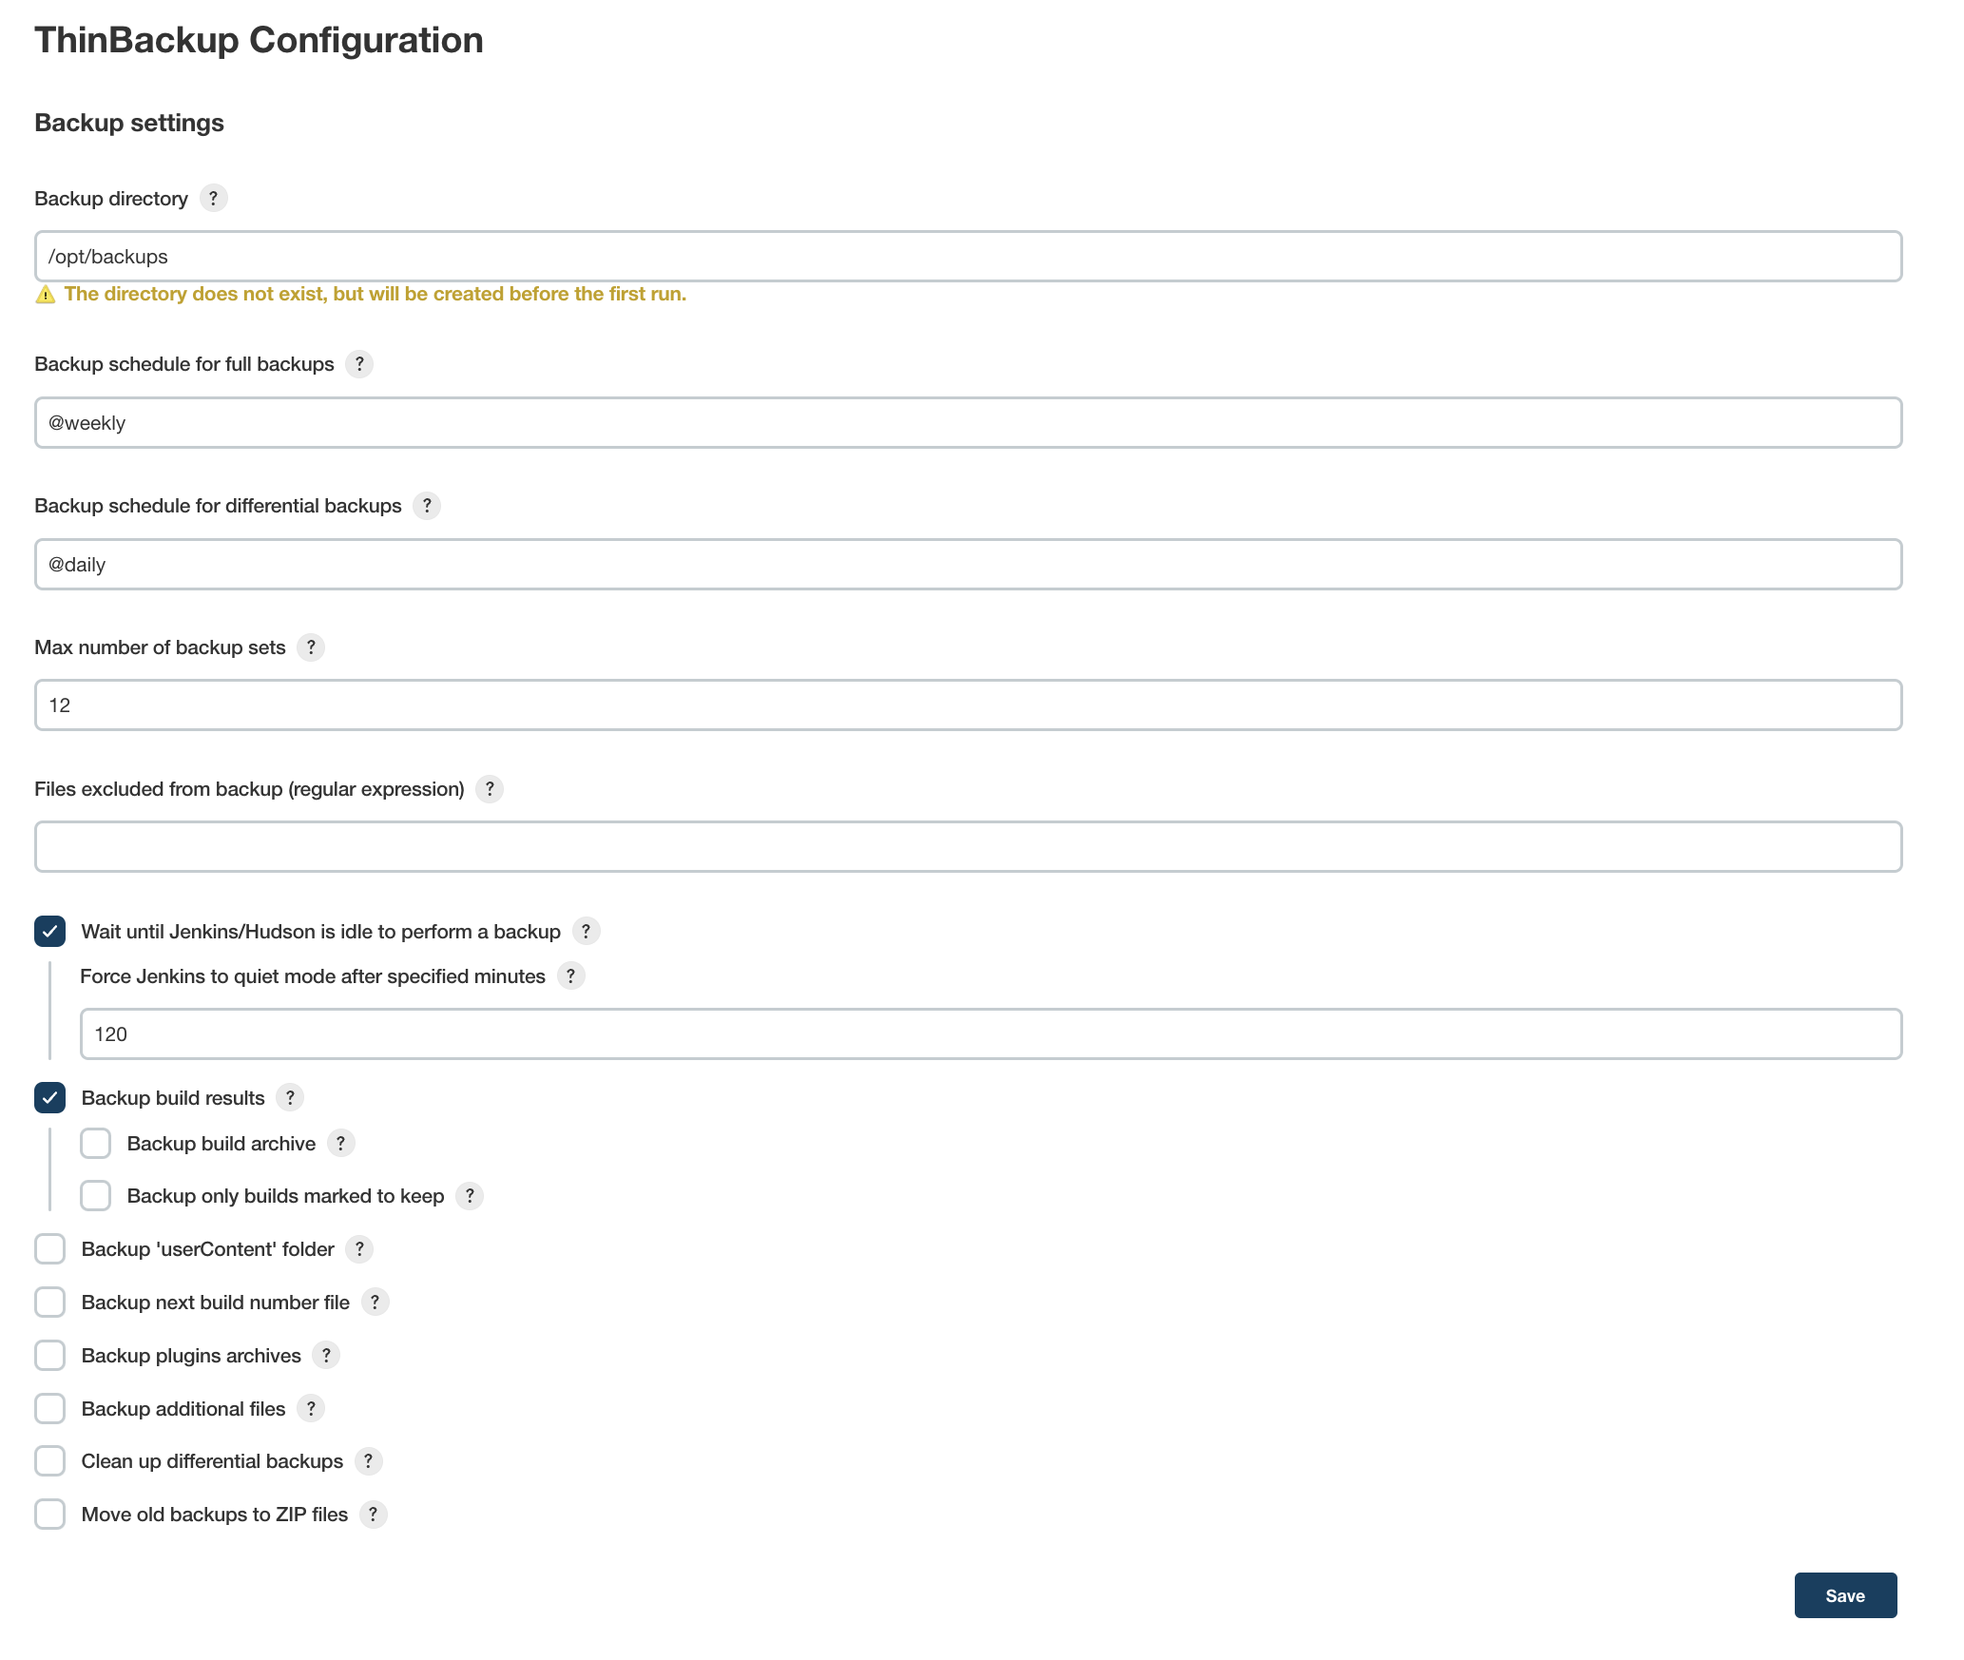
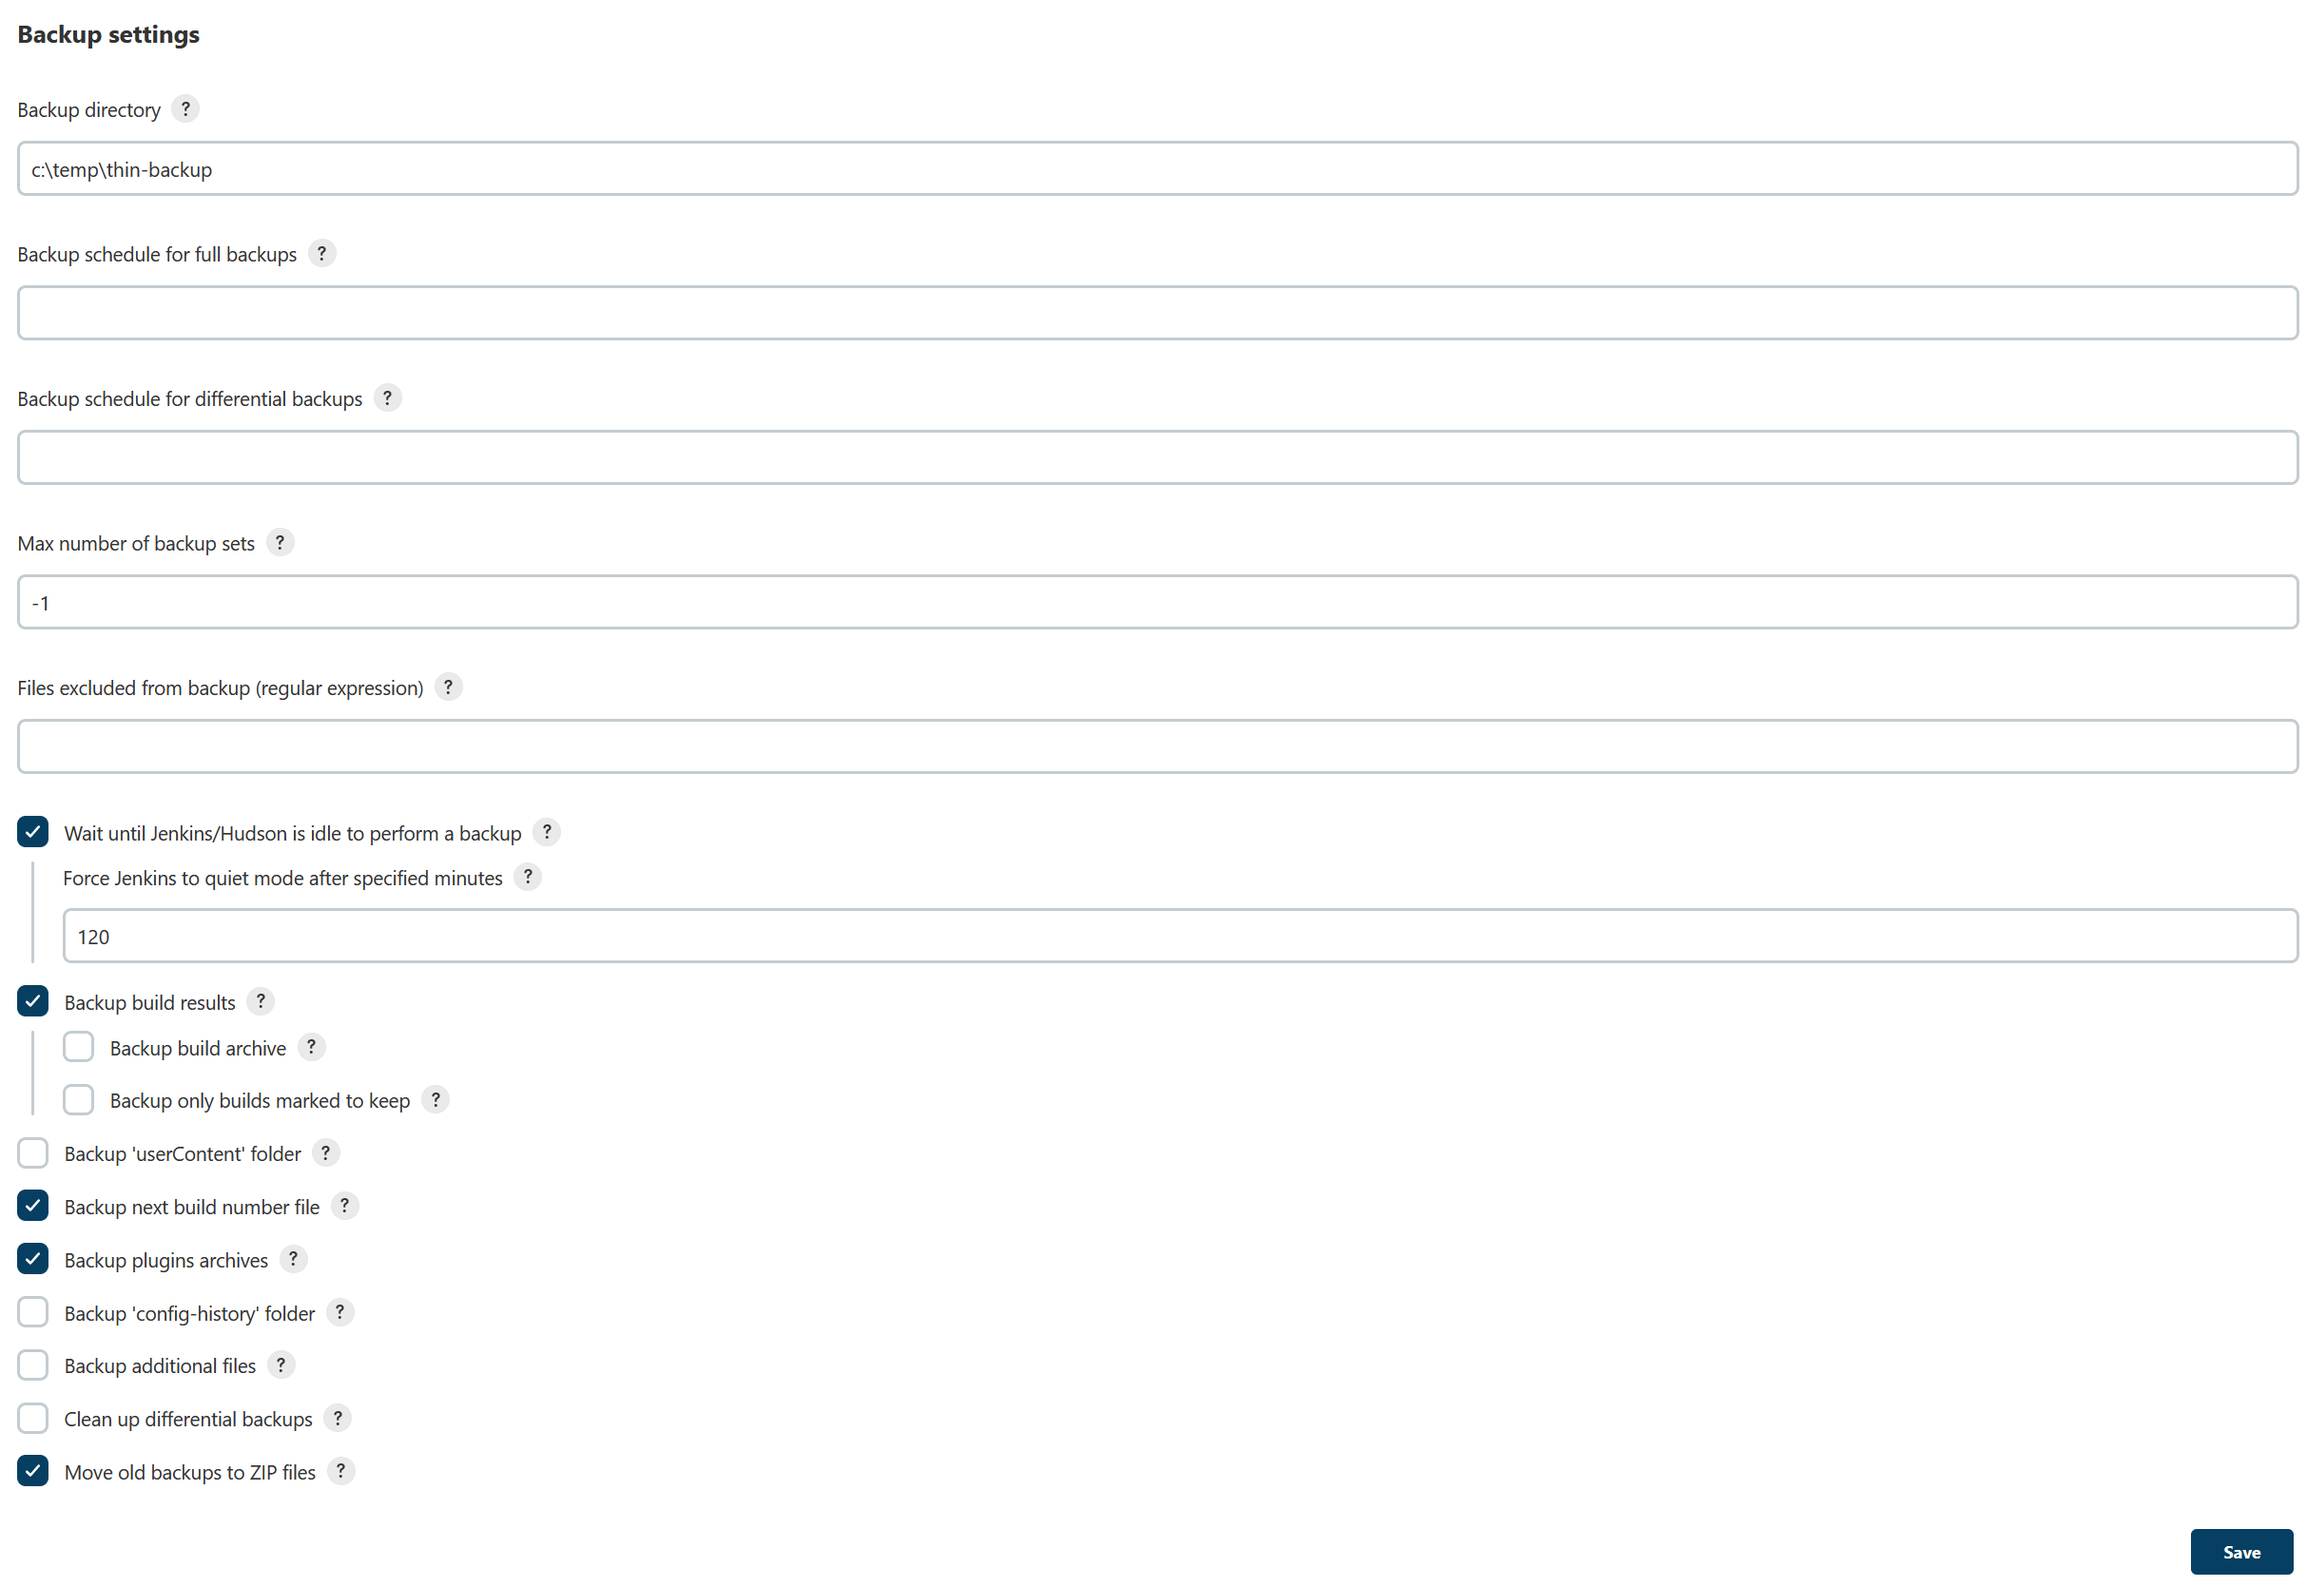
update documentation

diff --git a/README.md b/README.md
@@ -107,6 +107,12 @@ so think carefully about it.  Once you decide to backup build results, also get 
 backing up your build archives.  Once again, be careful with this option because it could be very
 **time consuming** and probably needs **a ton of disk space**!
 
+#### Backup next build number file
+If this option is enabled, the file `nextBuildNumber` will also be backed up.
+
+#### Backup 'config-history' folder
+If this option is enabled, the directory `config-history` will also be backed up. The plugin which creates this folder is the [Job Configuration History Plugin](https://plugins.jenkins.io/jobConfigHistory/). 
+
 #### Backup 'userContents'
 
 Jenkins provides a URL where you can put common data (e.g., static HTML, Tools, etc.).  You can
@@ -169,4 +175,4 @@ Please let us know if you have another option or feature for this plugin by ente
 write us an email.
 
 Before submitting a feature request or bug report, you can check if it has already been submitted by
-searching issues in JIRA categorized under the thin-backup-plugin component.
+searching issues in JIRA categorized under the thin-backup-plugin component or directly on the [plugin site](https://plugins.jenkins.io/jobConfigHistory/#issues)
